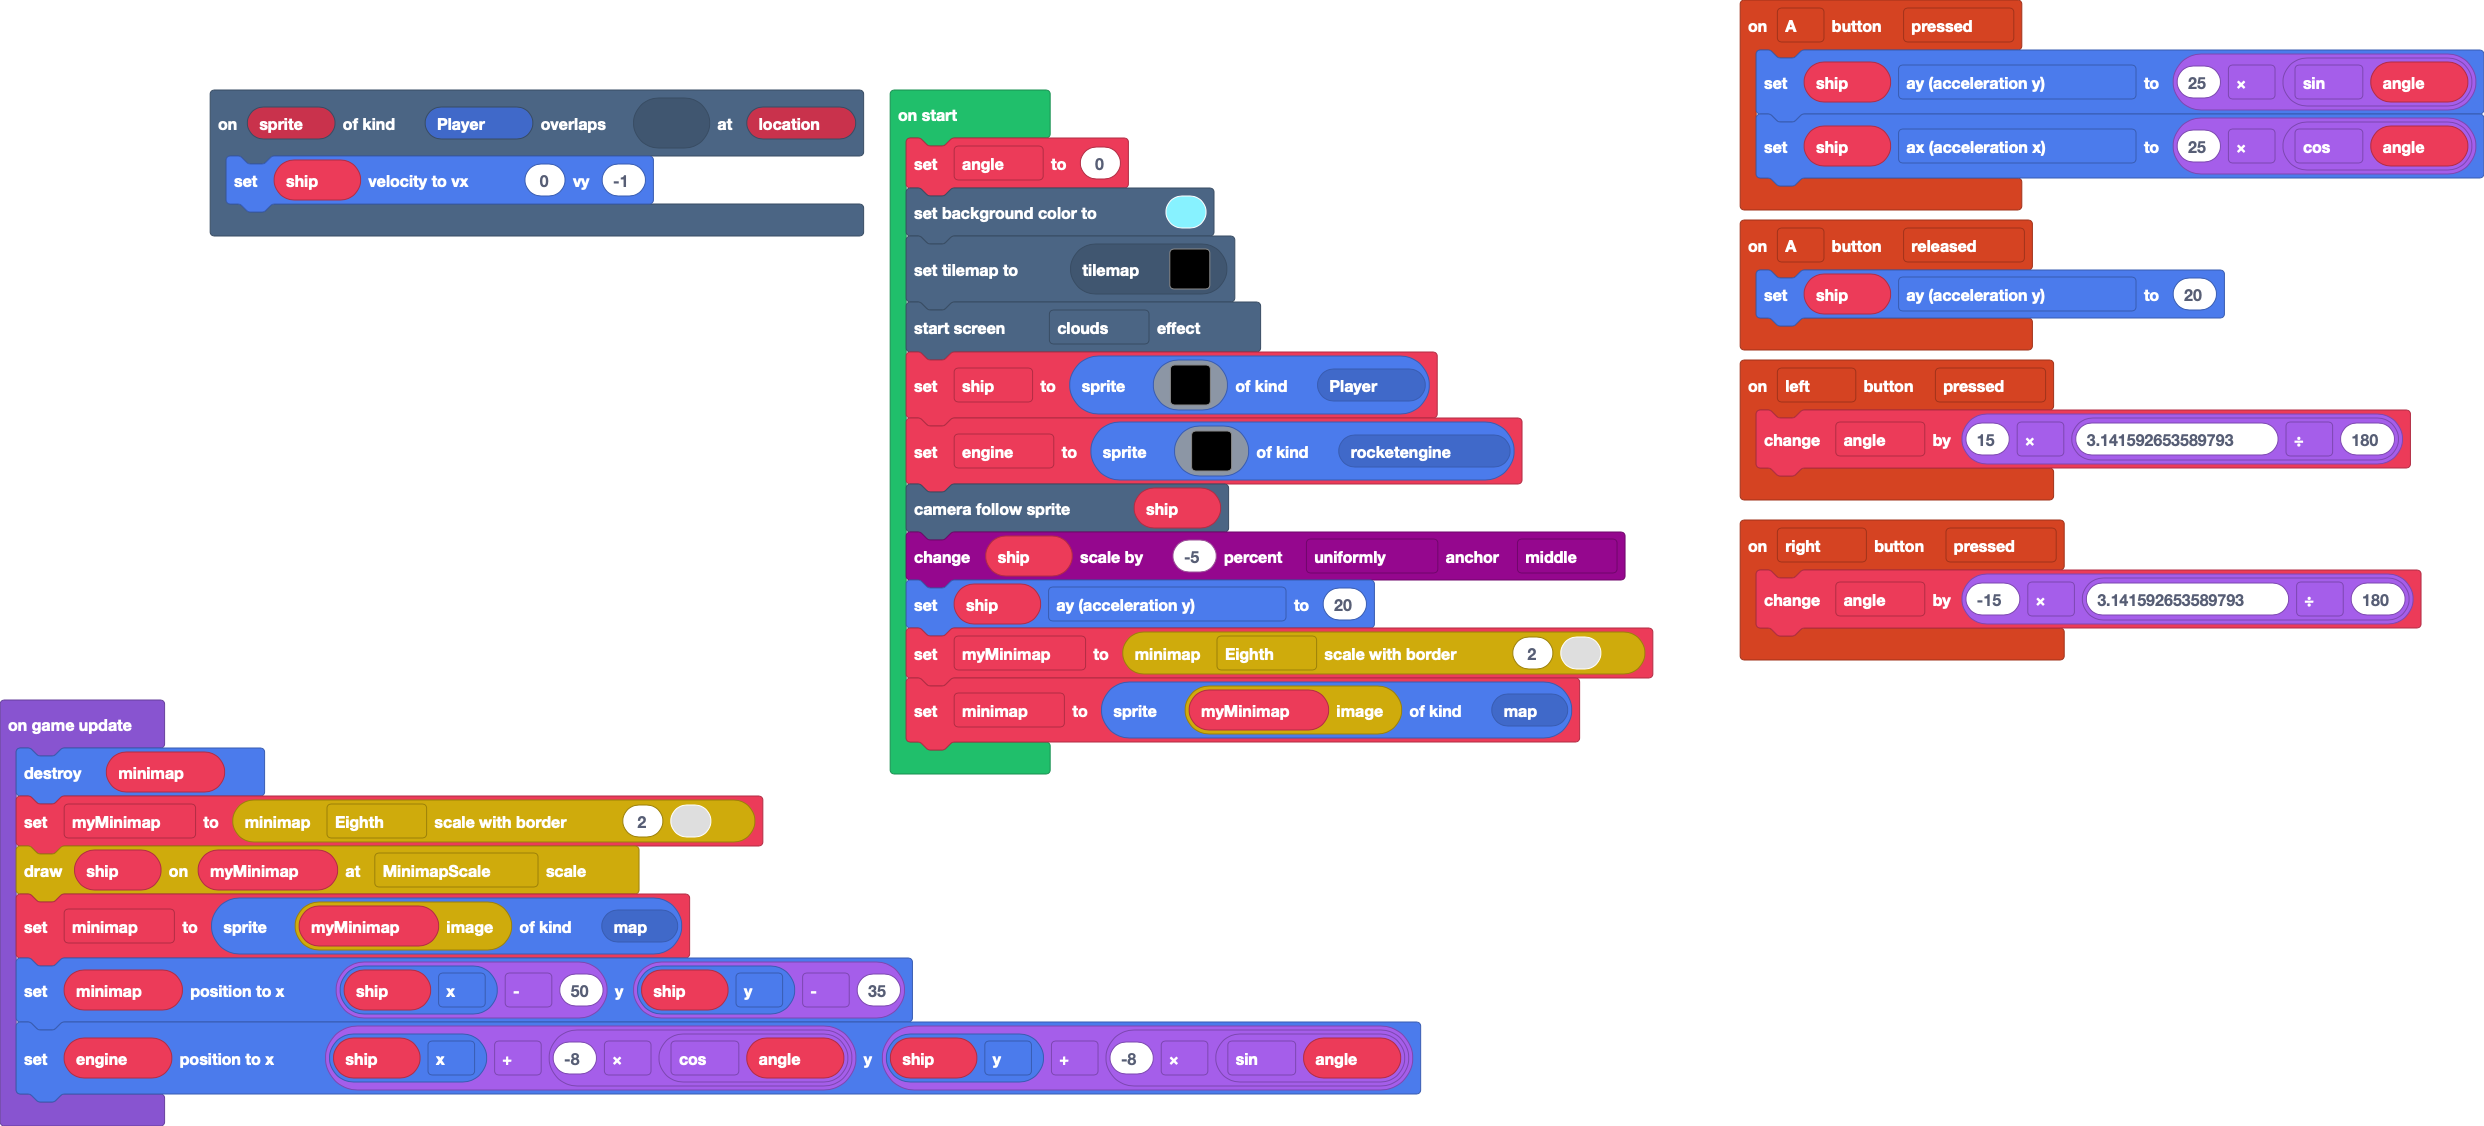
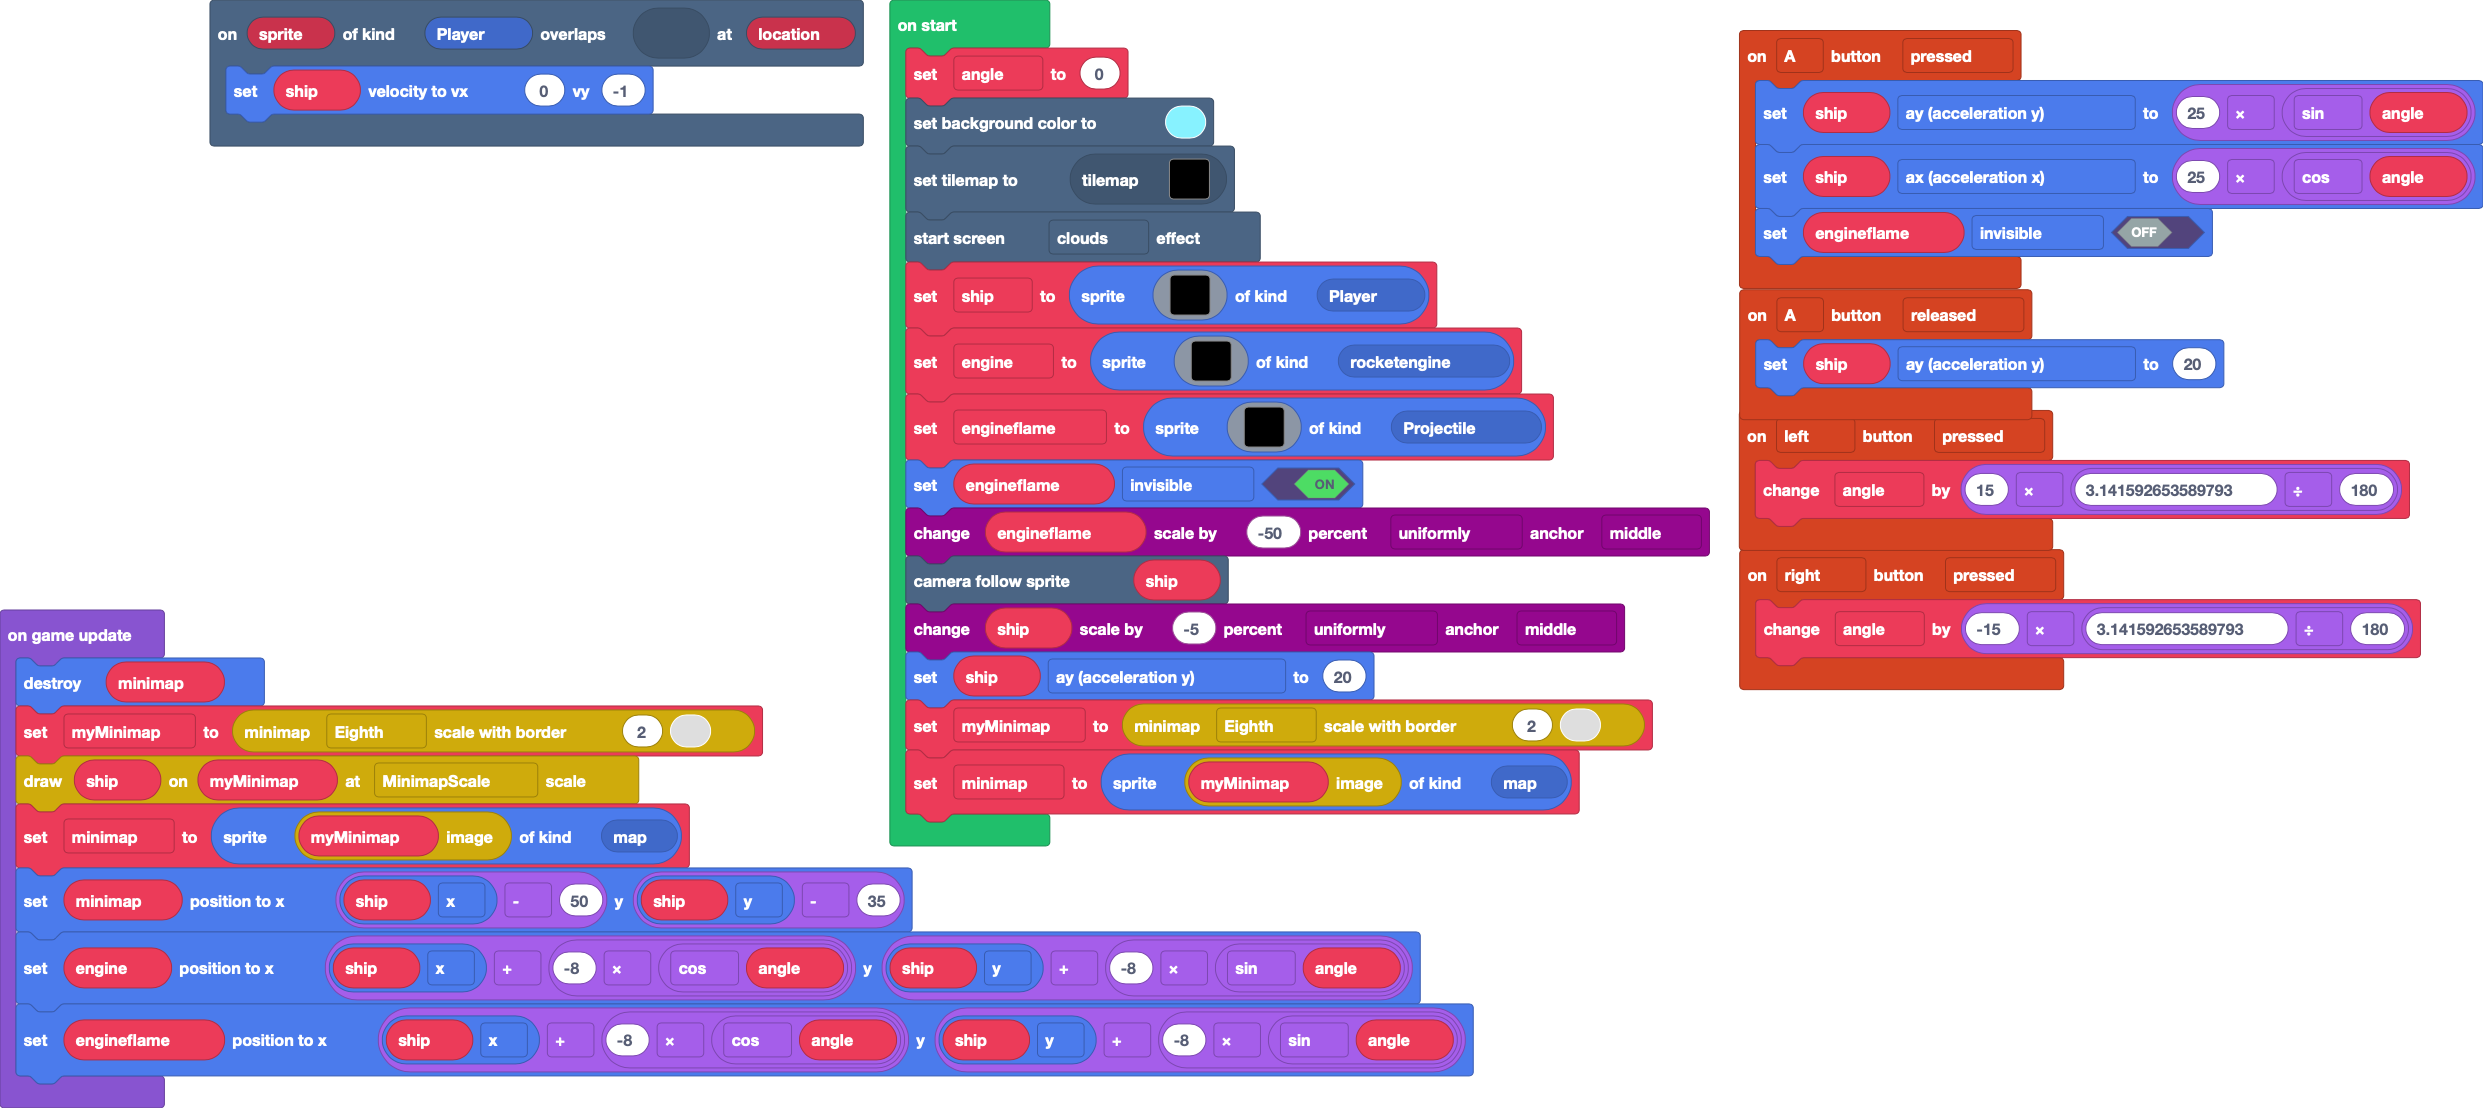
fireball finished

diff --git a/main.ts b/main.ts
@@ -1,10 +1,12 @@
 namespace SpriteKind {
     export const map = SpriteKind.create()
     export const rocketengine = SpriteKind.create()
+    export const fireball = SpriteKind.create()
 }
 controller.A.onEvent(ControllerButtonEvent.Pressed, function () {
     ship.ay = 25 * Math.sin(angle)
     ship.ax = 25 * Math.cos(angle)
+    engineflame.setFlag(SpriteFlag.Invisible, false)
 })
 controller.left.onEvent(ControllerButtonEvent.Pressed, function () {
     angle += 15 * (3.141592653589793 / 180)
@@ -18,6 +20,7 @@ controller.A.onEvent(ControllerButtonEvent.Released, function () {
 scene.onOverlapTile(SpriteKind.Player, sprites.dungeon.floorLight2, function (sprite, location) {
     ship.setVelocity(0, -1)
 })
+let engineflame: Sprite = null
 let ship: Sprite = null
 let angle = 0
 angle = 0
@@ -46,6 +49,26 @@ let engine = sprites.create(img`
     3 7 
     7 3 
     `, SpriteKind.rocketengine)
+engineflame = sprites.create(img`
+    . . . . . . . . . . . . . . . . 
+    . . . . f f f f f f f . . . . . 
+    . . . f 2 2 2 2 2 2 2 f . . . . 
+    . . f 2 2 4 4 4 4 4 2 2 f . . . 
+    . f 2 2 4 4 4 4 4 4 4 2 2 f . . 
+    . f 2 4 4 4 5 5 5 4 4 4 2 f . . 
+    . f 2 4 4 5 5 5 5 5 4 4 2 f . . 
+    . f 2 4 4 5 5 5 5 5 4 4 2 f . . 
+    . f 2 4 4 5 5 5 5 5 4 4 2 f . . 
+    . f 2 4 4 4 5 5 5 4 4 4 2 f . . 
+    . f 2 2 4 4 4 4 4 4 4 2 2 f . . 
+    . . f 2 2 4 4 4 4 4 2 2 f . . . 
+    . . . f 2 2 2 2 2 2 2 f . . . . 
+    . . . . f f f f f f f . . . . . 
+    . . . . . . . . . . . . . . . . 
+    . . . . . . . . . . . . . . . . 
+    `, SpriteKind.Projectile)
+engineflame.setFlag(SpriteFlag.Invisible, true)
+scaling.scaleByPercent(engineflame, -50, ScaleDirection.Uniformly, ScaleAnchor.Middle)
 scene.cameraFollowSprite(ship)
 scaling.scaleByPercent(ship, -5, ScaleDirection.Uniformly, ScaleAnchor.Middle)
 ship.ay = 20
@@ -58,4 +81,5 @@ game.onUpdate(function () {
     minimap2 = sprites.create(minimap.getImage(myMinimap), SpriteKind.map)
     minimap2.setPosition(ship.x - 50, ship.y - 35)
     engine.setPosition(ship.x + -8 * Math.cos(angle), ship.y + -8 * Math.sin(angle))
+    engineflame.setPosition(ship.x + -8 * Math.cos(angle), ship.y + -8 * Math.sin(angle))
 })
